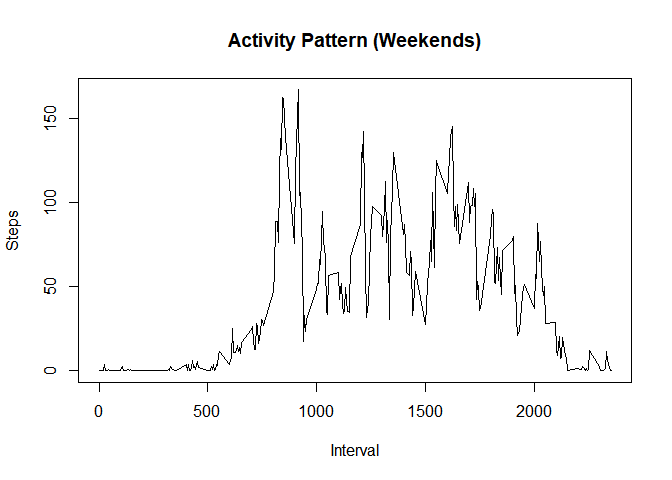
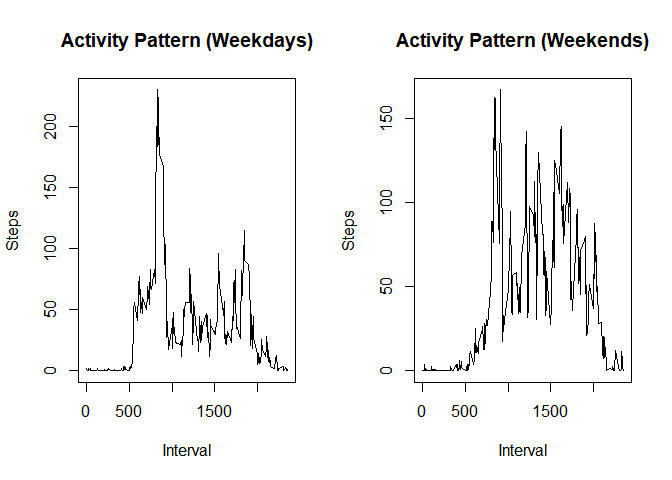
Took care of the comments from the peers.

diff --git a/PA1_template.html b/PA1_template.html
@@ -127,9 +127,6 @@ $(document).ready(function () {
 
 <div id="about-this-was-the-first-project-for-the-reproducible-research-course-in-courseras-data-science-specialization-track.-the-purpose-of-the-project-was-to-answer-a-series-of-questions-using-data-collected-from-a-fitbit." class="section level2">
 <h2>About This was the first project for the Reproducible Research course in Coursera’s Data Science specialization track. The purpose of the project was to answer a series of questions using data collected from a FitBit.</h2>
-</div>
-<div id="synopsis-the-purpose-of-this-project-was-to-practice" class="section level2">
-<h2>Synopsis The purpose of this project was to practice:</h2>
 <pre class="r"><code>setwd(&quot;D:/CourseraDataSciences/reproducible_research/Week2/RepData_PeerAssessment1&quot;)
 
 knitr::opts_chunk$set(echo = TRUE, cache = FALSE)</code></pre>
@@ -151,6 +148,12 @@ knitr::opts_chunk$set(echo = TRUE, cache = FALSE)</code></pre>
 <h1>calculate and report the mean and median of the total number of steps taken per day</h1>
 <pre class="r"><code>MeanPerDay &lt;- mean(StepsPerDay, na.rm = TRUE)
 MedianPerDay &lt;- median(StepsPerDay, na.rm = TRUE)</code></pre>
+<p>Mean Per day</p>
+<pre class="r"><code>MeanPerDay</code></pre>
+<pre><code>## [1] 10766.19</code></pre>
+<p>Median per day</p>
+<pre class="r"><code>MedianPerDay</code></pre>
+<pre><code>## [1] 10765</code></pre>
 <div id="what-is-the-average-daily-activity-pattern" class="section level2">
 <h2>What is the average daily activity pattern?</h2>
 </div>
@@ -167,7 +170,10 @@ plot(as.numeric(names(StepsPerInterval)),
[1 lines of base64/hex data omitted]
 <pre><code># Which 5-minute interval, on average across all the days in the dataset, contains the maximum number of steps?</code></pre>
 <pre class="r"><code>maxInterval &lt;- names(sort(StepsPerInterval, decreasing = TRUE)[1])
-maxSteps &lt;- sort(StepsPerInterval, decreasing = TRUE)[1]</code></pre>
+maxSteps &lt;- sort(StepsPerInterval, decreasing = TRUE)[1]
+
+maxInterval</code></pre>
+<pre><code>## [1] &quot;835&quot;</code></pre>
 <div id="inputing-missing-values" class="section level2">
 <h2>Inputing missing values</h2>
 </div>
@@ -210,7 +216,7 @@ MedianPerDay.imputed &lt;- median(StepsPerDay.imputed, na.rm = TRUE)</code></pre
 </div>
 </div>
 <div id="create-a-new-factor-variable-in-the-dataset-with-two-levels---weekday-and-weekend-indicating-whether-a-given-date-is-a-weekday-or-weekend-day." class="section level1">
-<h1>Create a new factor variable in the dataset with two levels - “weekday” and “weekend” indicating whether a given date is a weekday or weekend day.</h1>
+<h1>Create a new factor variable in the dataset with two levels - ?weekday? and ?weekend? indicating whether a given date is a weekday or weekend day.</h1>
 <pre class="r"><code>activity.imputed$day &lt;- ifelse(weekdays(as.Date(activity.imputed$date)) == &quot;Saturday&quot; | weekdays(as.Date(activity.imputed$date)) == &quot;Sunday&quot;, &quot;weekend&quot;, &quot;weekday&quot;)</code></pre>
 </div>
 <div id="make-a-panel-plot-containing-a-time-series-plot-of-the-5-minute-interval-and-the-average-number-of-steps-taken-averaged-across-all-weekday-days-or-weekend-days." class="section level1">
@@ -224,30 +230,6 @@ MedianPerDay.imputed &lt;- median(StepsPerDay.imputed, na.rm = TRUE)</code></pre
 <h1>Calculate average steps per interval for weekdays</h1>
 <pre class="r"><code>StepsPerInterval.weekday &lt;- tapply(activity.imputed[activity.imputed$day == &quot;weekday&quot; ,]$steps, activity.imputed[activity.imputed$day == &quot;weekday&quot; ,]$interval, mean, na.rm = TRUE)</code></pre>
 </div>
-<div id="set-a-2-panel-plot" class="section level1">
-<h1>Set a 2 panel plot</h1>
-<pre class="r"><code>par(mfrow=c(1,2))</code></pre>
-</div>
-<div id="plot-weekday-activity" class="section level1">
-<h1>Plot weekday activity</h1>
-<pre class="r"><code>plot(as.numeric(names(StepsPerInterval.weekday)), 
-    StepsPerInterval.weekday, 
-    xlab = &quot;Interval&quot;, 
-    ylab = &quot;Steps&quot;, 
-    main = &quot;Activity Pattern (Weekdays)&quot;, 
-    type = &quot;l&quot;)</code></pre>
[1 lines of base64/hex data omitted]
-</div>
-<div id="plot-weekend-activity" class="section level1">
-<h1>Plot weekend activity</h1>
-<pre class="r"><code>plot(as.numeric(names(StepsPerInterval.weekend)), 
-    StepsPerInterval.weekend, 
-    xlab = &quot;Interval&quot;, 
-    ylab = &quot;Steps&quot;, 
-    main = &quot;Activity Pattern (Weekends)&quot;, 
-    type = &quot;l&quot;)</code></pre>
[1 lines of base64/hex data omitted]
-</div>
 <div id="calculate-average-steps-per-interval-for-weekends-1" class="section level1">
 <h1>Calculate average steps per interval for weekends</h1>
 <pre class="r"><code>StepsPerInterval.weekend &lt;- tapply(activity.imputed[activity.imputed$day == &quot;weekend&quot; ,]$steps, activity.imputed[activity.imputed$day == &quot;weekend&quot; ,]$interval, mean, na.rm = TRUE)</code></pre>
@@ -256,29 +238,24 @@ MedianPerDay.imputed &lt;- median(StepsPerDay.imputed, na.rm = TRUE)</code></pre
 <h1>Calculate average steps per interval for weekdays</h1>
 <pre class="r"><code>StepsPerInterval.weekday &lt;- tapply(activity.imputed[activity.imputed$day == &quot;weekday&quot; ,]$steps, activity.imputed[activity.imputed$day == &quot;weekday&quot; ,]$interval, mean, na.rm = TRUE)</code></pre>
 </div>
-<div id="set-a-2-panel-plot-1" class="section level1">
+<div id="set-a-2-panel-plot" class="section level1">
 <h1>Set a 2 panel plot</h1>
-<pre class="r"><code>par(mfrow=c(1,2))</code></pre>
-</div>
-<div id="plot-weekday-activity-1" class="section level1">
-<h1>Plot weekday activity</h1>
-<pre class="r"><code>  plot(as.numeric(names(StepsPerInterval.weekday)), 
+<pre class="r"><code>par(mfrow=c(1,2))
+
+  plot(as.numeric(names(StepsPerInterval.weekday)), 
     StepsPerInterval.weekday, 
     xlab = &quot;Interval&quot;, 
     ylab = &quot;Steps&quot;, 
     main = &quot;Activity Pattern (Weekdays)&quot;, 
-      type = &quot;l&quot;)</code></pre>
[1 lines of base64/hex data omitted]
-</div>
-<div id="plot-weekend-activity-1" class="section level1">
-<h1>Plot weekend activity</h1>
-<pre class="r"><code>plot(as.numeric(names(StepsPerInterval.weekend)), 
+      type = &quot;l&quot;)
+
+plot(as.numeric(names(StepsPerInterval.weekend)), 
     StepsPerInterval.weekend, 
     xlab = &quot;Interval&quot;, 
     ylab = &quot;Steps&quot;, 
     main = &quot;Activity Pattern (Weekends)&quot;, 
     type = &quot;l&quot;) </code></pre>
[2 lines of base64/hex data omitted]
 </div>
 
 
